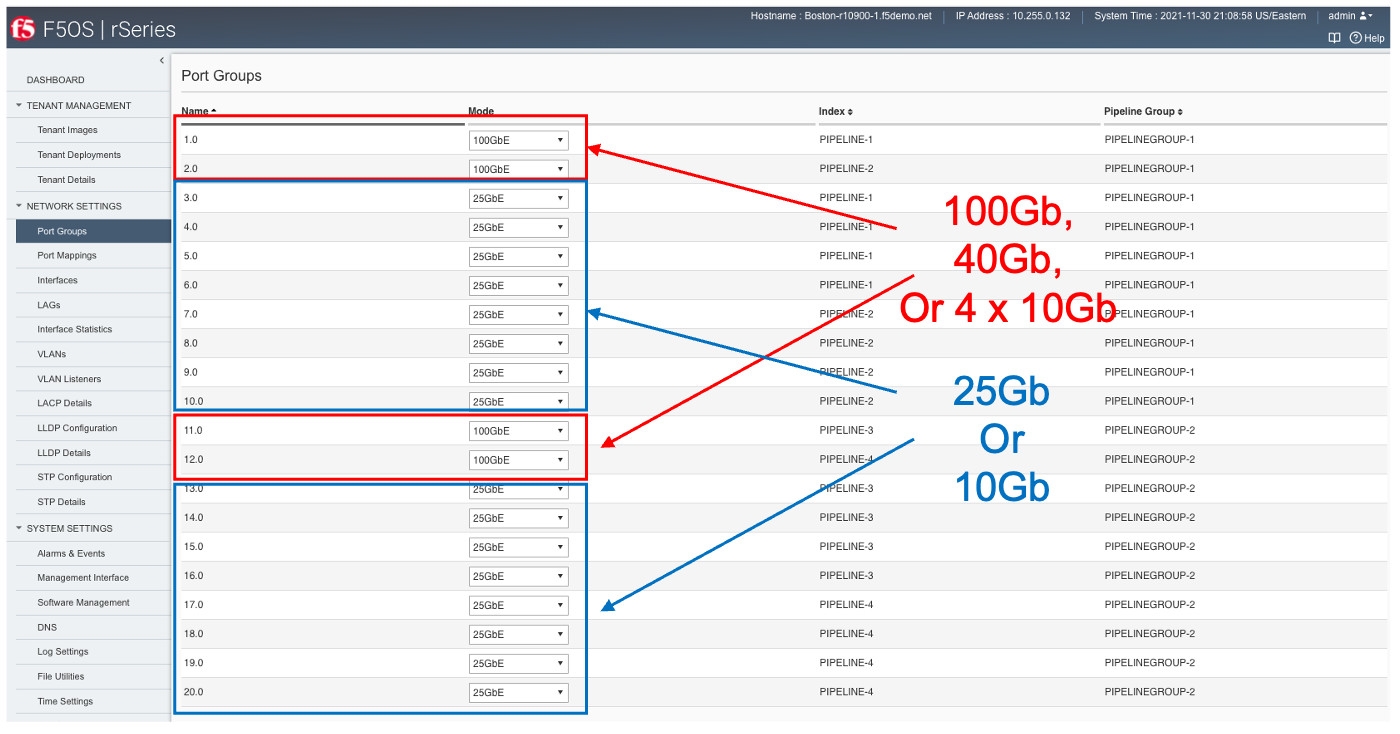
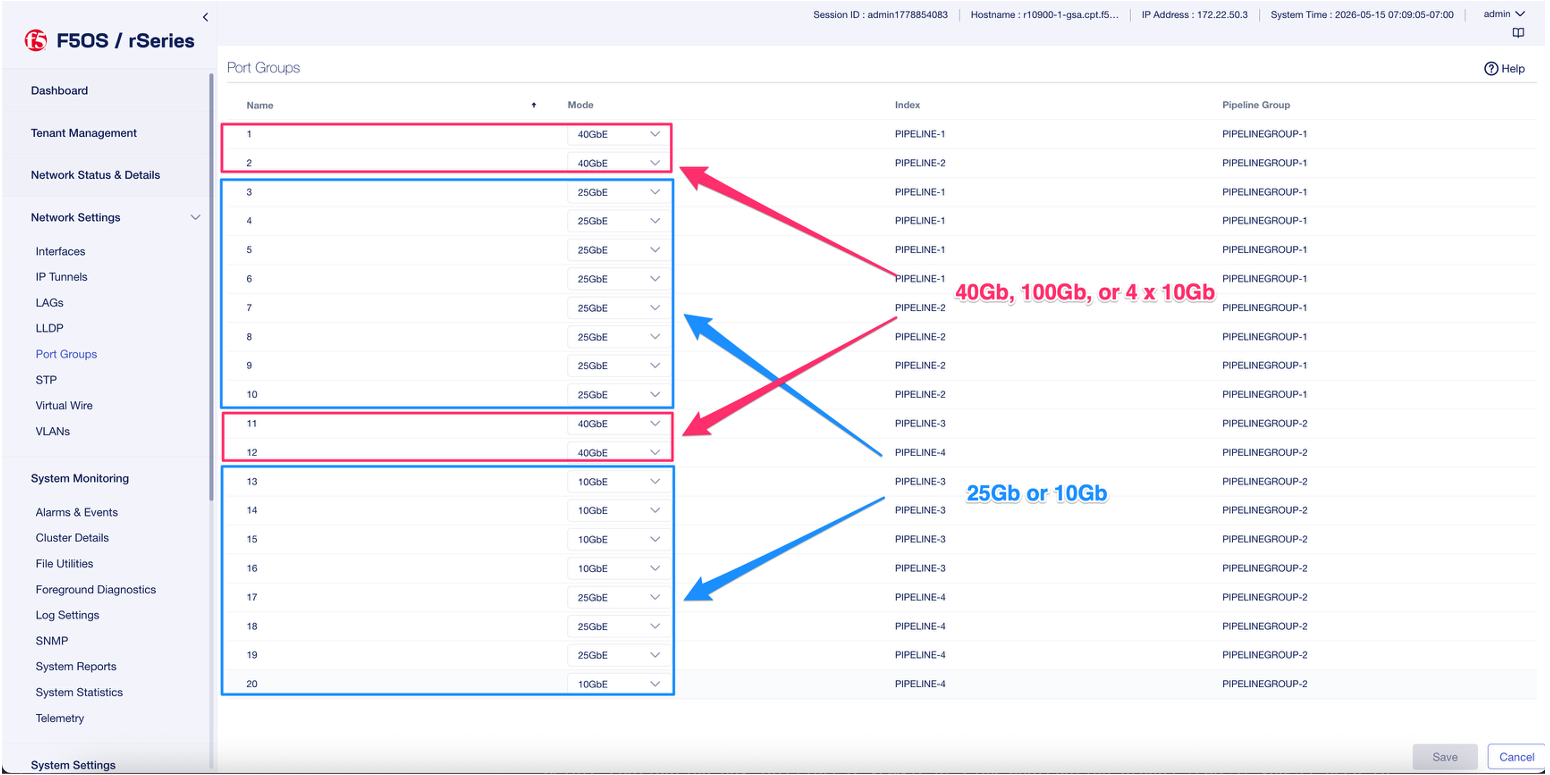
gui

Changed region(s): [[0.0, 0.0, 1.0, 1.0], [0.5221, 0.2997, 0.5529, 0.3297]]

diff --git a/docs/rseries_security.rst b/docs/rseries_security.rst
@@ -238,9 +238,34 @@ Once the mgmt-vlan object is defined with the proper VLAN ID, you can then assig
 
 .. code-block:: bash
 
+    POST https://{{rseries_appliance1_ip}}:8888/restconf/data/openconfig-system:system
+
+In the body of the API request add the **mgmt-vlan** object:
 
 .. code-block:: json
 
+    {
+        "f5-mgmt-ip:mgmt-ip": {
+            "config": {
+                "dhcp-enabled": false,
+                "ipv4": {
+                    "system": {
+                        "address": "172.22.50.1"
+                    },
+                    "prefix-length": 26,
+                    "gateway": "172.22.50.62"
+                },
+                "ipv6": {
+                    "system": {
+                        "address": "::"
+                    },
+                    "prefix-length": 0,
+                    "gateway": "::"
+                },
+                "mgmt-vlan": 500
+            }
+        }
+    }
 
 
 To view the current system management IP configuration, enter the following API call.